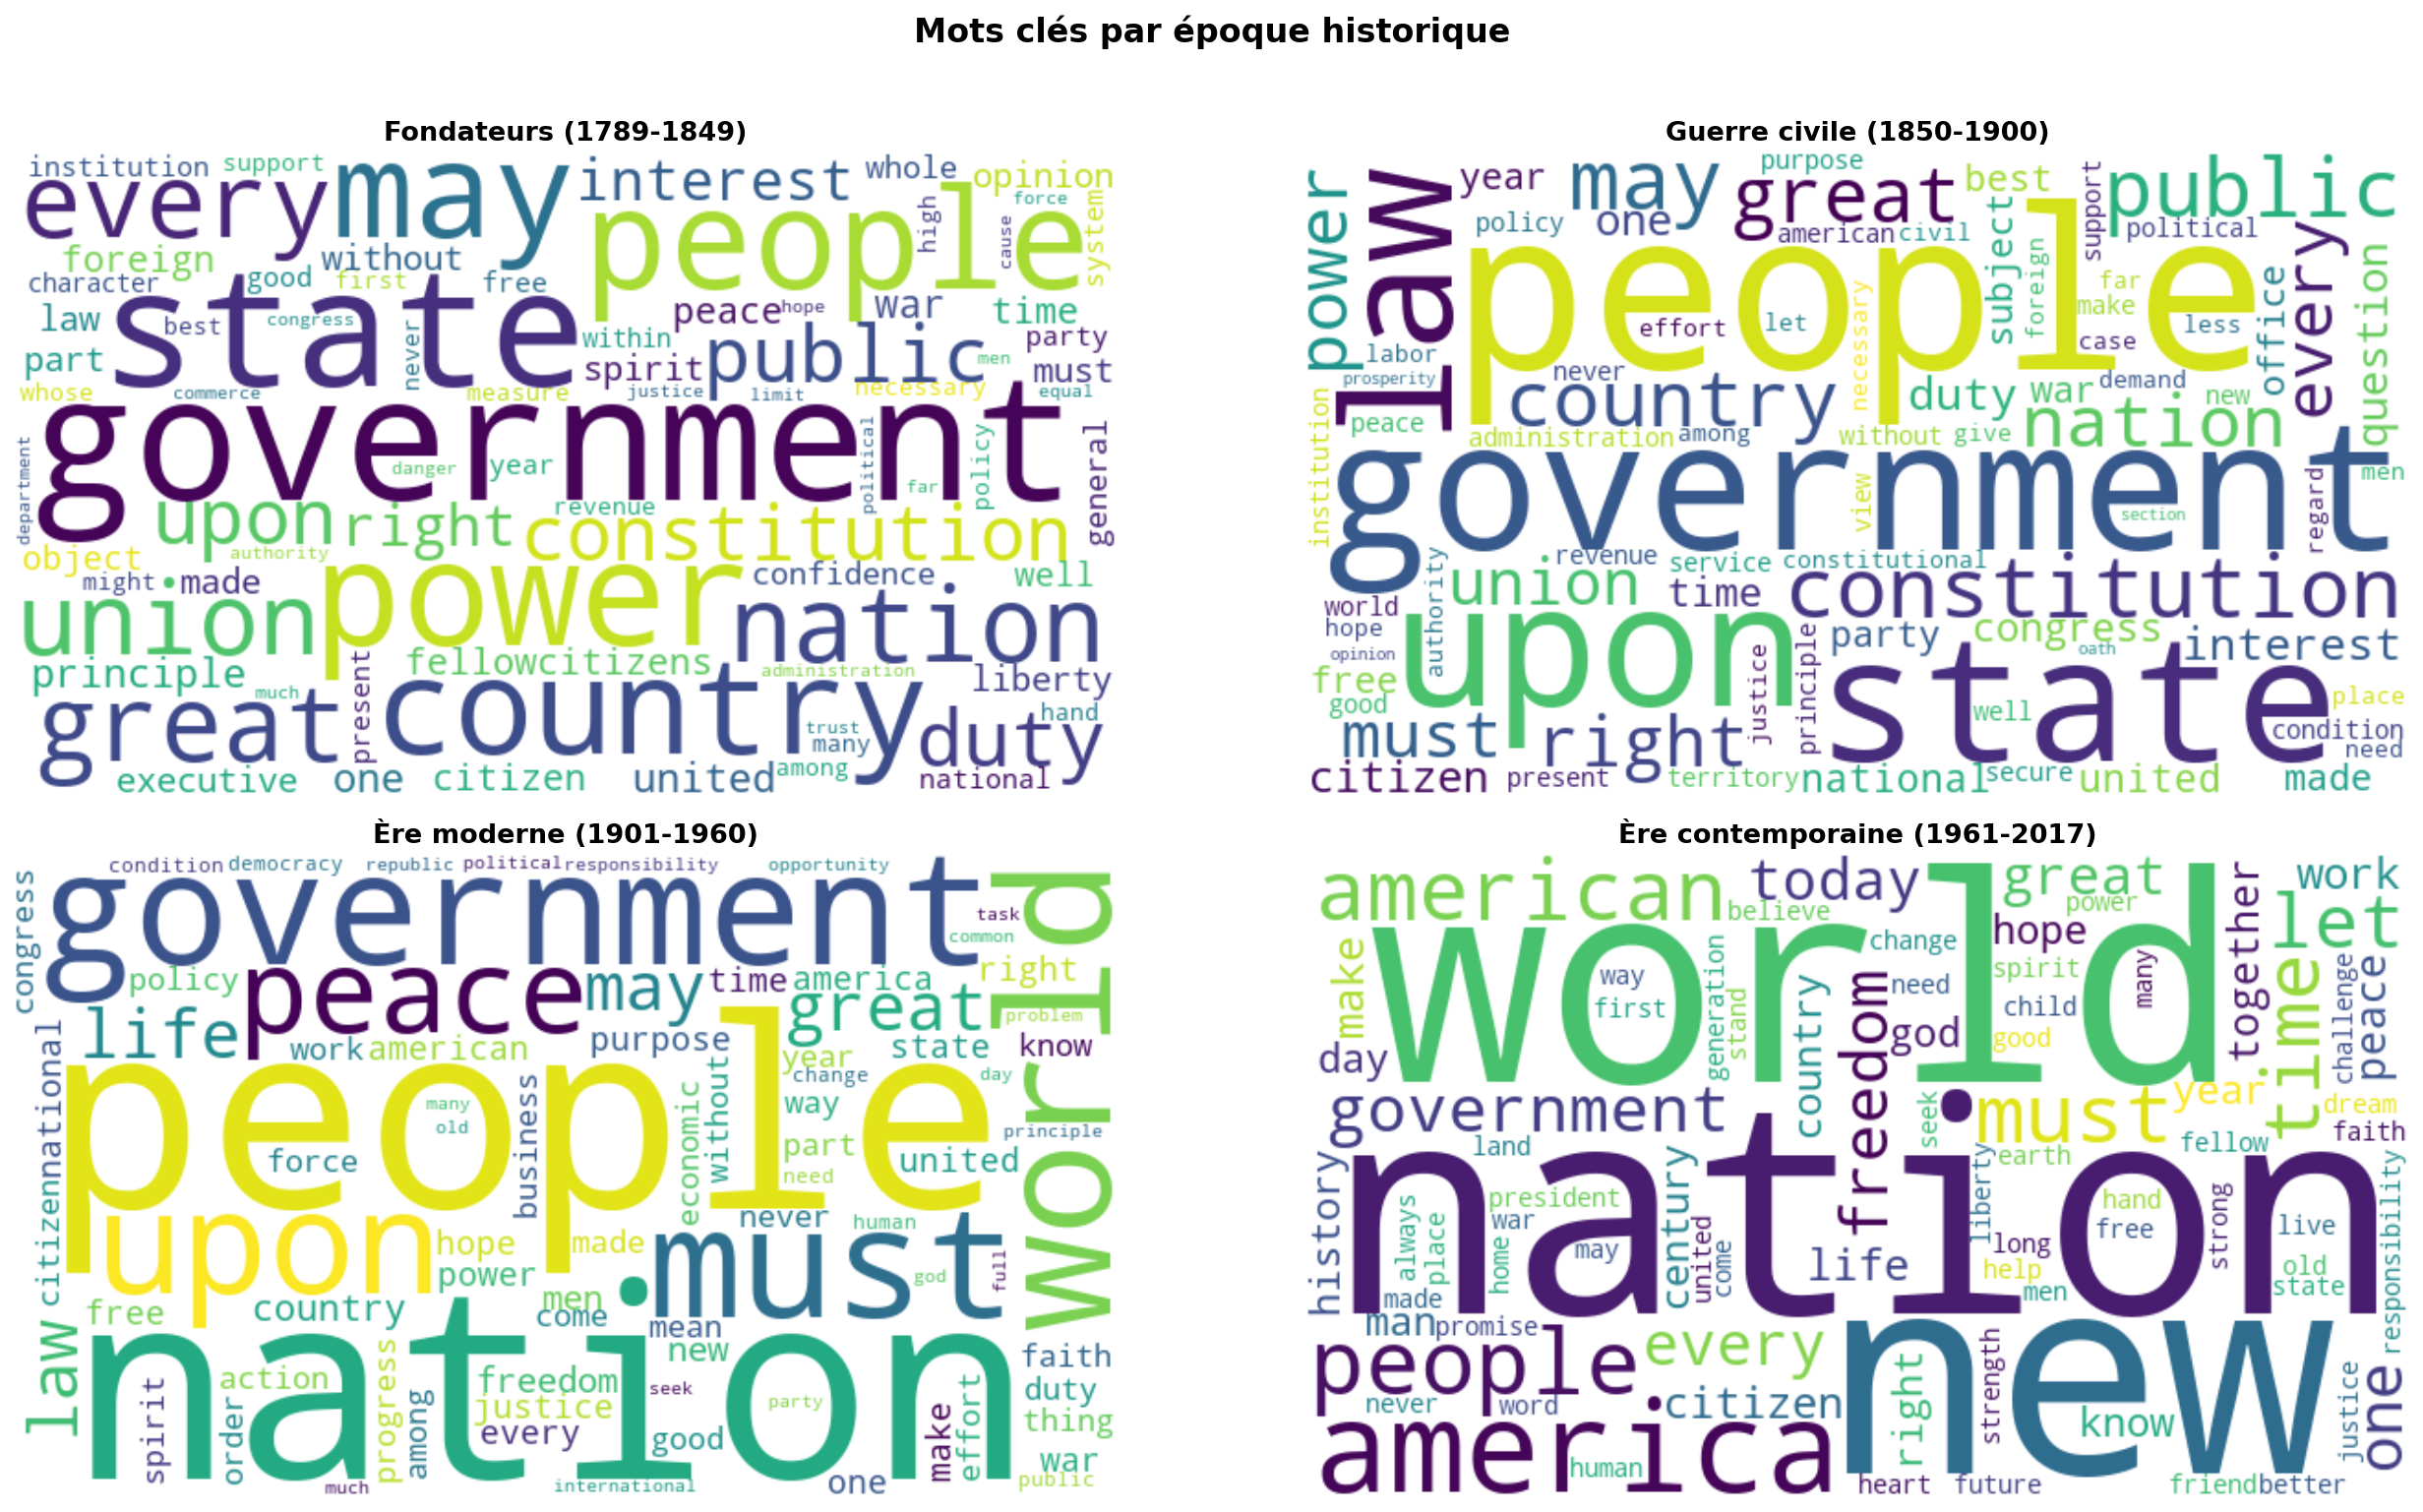
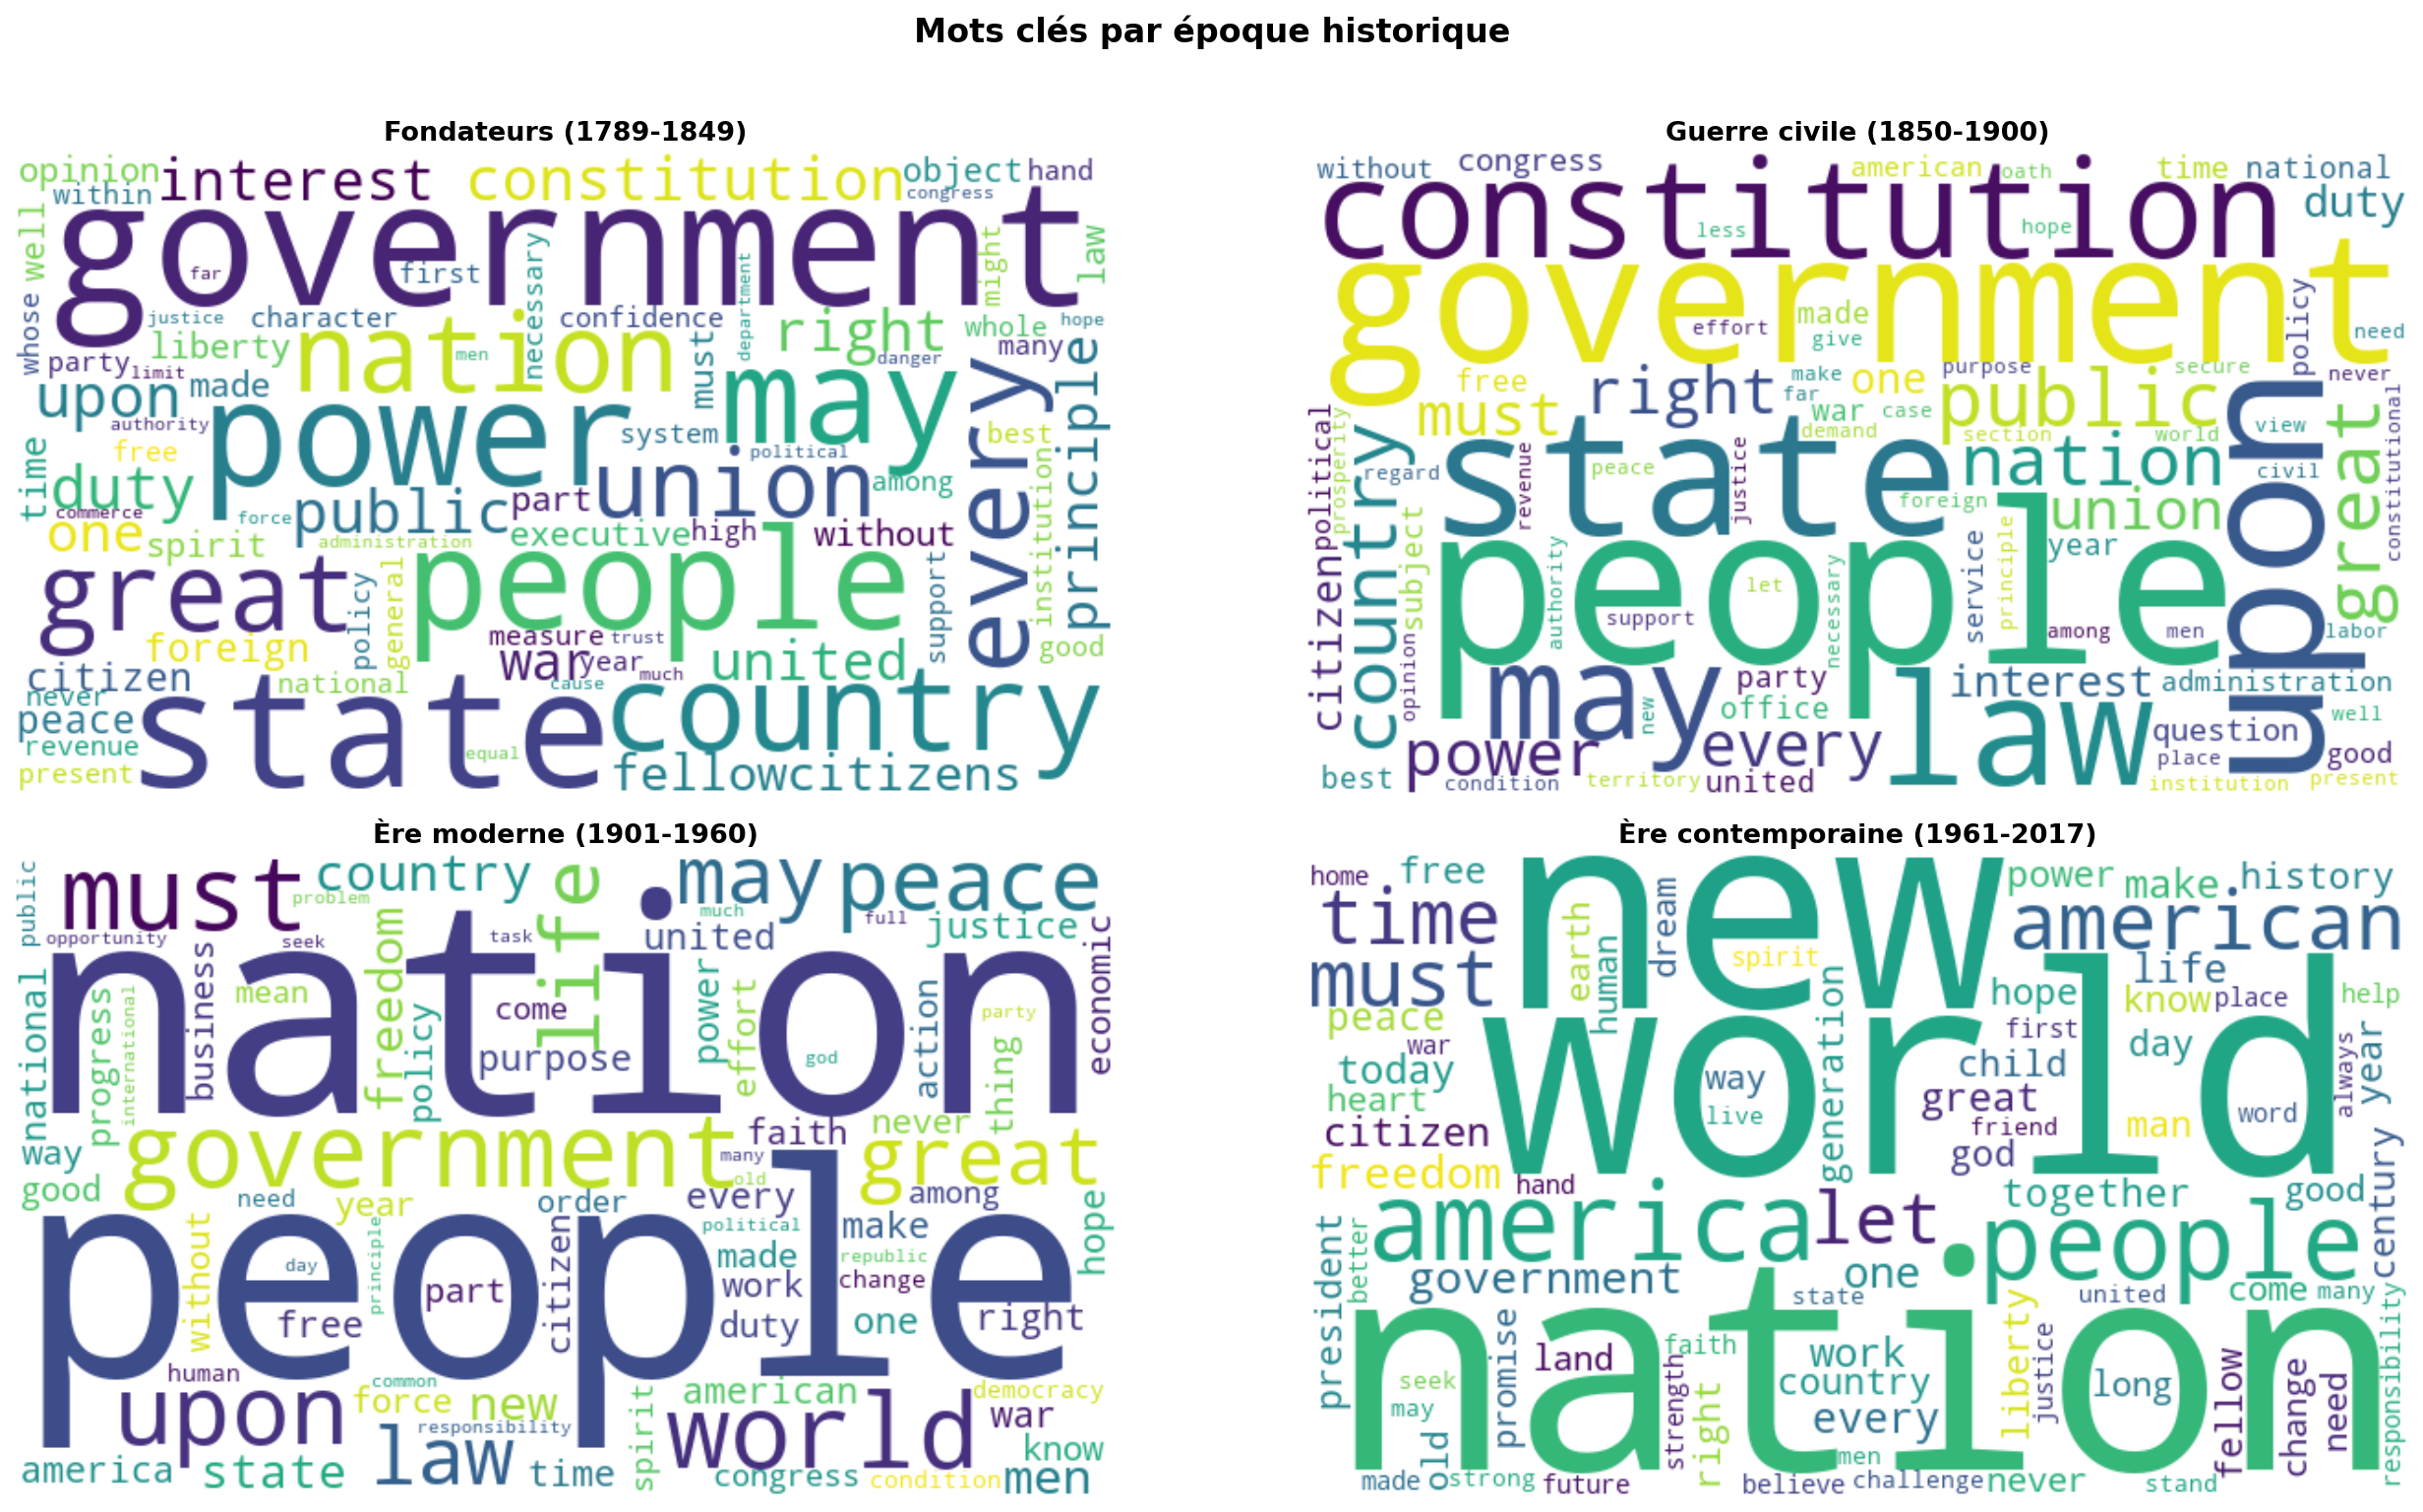
Update README and add final PDF report

diff --git a/README.md b/README.md
@@ -1,9 +1,5 @@
 # 🇺🇸 Analyse NLP des Discours d'Investiture Présidentiels Américains
 
-
-
----
-
 ##  Objectif
 
 Analyser les 58 discours d'investiture des présidents américains (1789–2017),
@@ -18,7 +14,7 @@ de George Washington à Donald J. Trump, afin de comprendre :
 
 ##  Structure du projet
 
-TP_Presidentielle/
+presidential-speeches-analysis/
 ├── data/
 │   └── inaug_speeches.csv        # Dataset Kaggle (58 discours, 1789-2017)
 ├── notebooks/
@@ -33,7 +29,8 @@ TP_Presidentielle/
 │   ├── 03_wordcloud_global.png
 │   ├── 04_wordcloud_by_era.png
 │   ├── 05_tfidf_comparison.png
-│   └── 06_top_entities.png
+│   ├── 06_top_entities.png
+│   └── rapport_presidential_speeches.pdf
 ├── requirements.txt
 └── README.md
 
@@ -49,7 +46,7 @@ TP_Presidentielle/
 
 ---
 
-##  Installation
+## 🔧 Installation
 
 ### Prérequis
 - Python 3.10+
@@ -59,8 +56,8 @@ TP_Presidentielle/
 
 ```bash
 # 1. Cloner le repo
-git clone https://github.com/RayelenGuesmi/TP_Presidentielle.git
-cd TP_Presidentielle
+git clone https://github.com/RayelenGuesmi/presidential-speeches-analysis.git
+cd presidential-speeches-analysis
 
 # 2. Créer et activer l'environnement virtuel
 python -m venv venv
@@ -178,5 +175,4 @@ vérification des valeurs manquantes.
 
 ##  Licence
 Projet réalisé dans un cadre académique — données issues de Kaggle (domaine public).
-
-> **Auteur** : Rayelen Guesmi  
+> **Auteur** : Rayelen Guesmi 